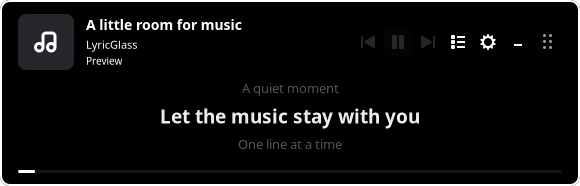
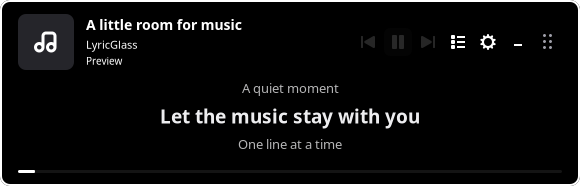
Document recovery and save behavior
Update checks and the contrast preview.

Changed region(s): [[0.4034, 0.7527, 0.5897, 0.8065], [0.4034, 0.457, 0.5897, 0.5108]]

diff --git a/docs/CONFIGURATION.md b/docs/CONFIGURATION.md
@@ -3,7 +3,9 @@
 Open Preferences with `lyricglass settings` or Shift+F7 where global shortcuts
 are configured. Changes apply live and save after a short debounce. English is
 the default; Behavior offers Spanish and Simplified Chinese. Song text and
-artist names are never translated.
+artist names are never translated, including their tooltips. External commands
+refresh open preferences without changing the active tab. Normal exit and service
+stop wait up to three seconds for pending preference writes to finish.
 
 ## Appearance
 
@@ -32,8 +34,10 @@ complete lyrics view. Artwork, playback buttons, progress, neighboring lines
 and metadata can be hidden independently or through lyrics-only mode.
 
 Dark and Light use solid surfaces; their opacity does not follow the Glass
-slider. Minimal removes the drawn panel background, though compositor blur
-rules may still affect the surface behind it. System reduced-motion settings
+slider. Minimal removes the drawn panel background. Generated Niri rules disable
+blur for non-glass styles and remove Minimal's shadow; separately configured
+desktop rules may override this. High contrast keeps neighboring lyrics at least
+75% opaque. System reduced-motion settings
 are honored in addition to the app's animation toggle.
 
 Reset appearance restores visual defaults without changing language, startup,
@@ -60,6 +64,12 @@ coordinates cannot override compositor policy. See [compatibility](COMPATIBILITY
 Hide/show does not quit the application. The settings command still works while
 the overlay is hidden, paused or click-through. Turning off login startup does
 not terminate a running instance.
+
+`lyricglass recover`, also available as Restore access in Behavior, restores a
+clickable panel on the automatic monitor at the top-center anchor. It clears
+position locking, lyrics-only mode, auto-hide and start-hidden preferences, but
+preserves appearance, language, lyric timing, shortcuts and login startup.
+Managed Wayland still controls the actual window position.
 
 ## Playback
 
@@ -89,6 +99,7 @@ lyricglass language en
 lyricglass language es
 lyricglass language zh
 lyricglass move
+lyricglass recover
 lyricglass position 120 180
 lyricglass reset-position
 lyricglass material liquid --refraction 6
@@ -120,6 +131,8 @@ Preferences also has native import/export file dialogs. Imports apply live,
 normalize ranges and preserve the current login-startup choice. Files must be
 valid JSON and at most 128 KiB. Backups can include display connector names and
 shortcut choices from another machine; review these after importing.
+CLI exports use the live application's preferences when available, even before
+the debounced disk write finishes. With no running instance they read the file.
 
 Settings live in `$XDG_CONFIG_HOME/lyricglass/config.json`, normally
 `~/.config/lyricglass/config.json`. Missing fields receive defaults. Invalid JSON

diff --git a/docs/VERIFICATION.md b/docs/VERIFICATION.md
@@ -7,7 +7,7 @@ GTK 4.22.4, gtk4-layer-shell C library 1.3.0 and Niri 26.04.
 
 - Formatting and strict Clippy with all features.
 - Formatting and strict Clippy without the optional layer-shell feature.
-- 19 unit tests plus one private-D-Bus MPRIS integration test.
+- 22 unit tests plus one private-D-Bus MPRIS integration test.
 - One additional native X11 integration test, explicitly enabled with
   `cargo test --test x11 -- --ignored`.
 - Native X11 test also passes with `--no-default-features`.
@@ -34,6 +34,17 @@ D-Bus session. It verifies:
 - Injected F7 presses hide and show the window.
 - Click-through creates an empty native input region.
 - Settings import/export updates a running instance and preserves startup choice.
+- Immediate exports use live preferences rather than an outdated file.
+- Immediate Quit and SIGTERM flush the latest settings and bounded coordinates.
+- Recovery restores access without resetting appearance, language or startup.
+- Switching language retains the selected preferences tab.
+- Oversized startup configuration files fall back to defaults.
+
+All five generated stock-Niri rule files and all five optional Liquid Glass
+rule files passed their respective compositor validators. The X11 harness waits
+for D-Bus ownership before sending commands after a restart and bounds command
+execution, preventing a status request from accidentally becoming the primary
+test instance.
 
 Screenshots in `screenshots/` are native widget captures with original sample
 lyrics, not browser mockups. They exclude background blur and refraction.
@@ -56,7 +67,8 @@ enabled and running, replacing the temporary launch unit. The installed desktop
 and autostart entries and systemd unit passed their validators; `niri validate`
 also passed. Disabling and reenabling login startup left the same application
 process running. Existing appearance, placement and shortcut settings survived
-the update. The installed app reports English, the native Wayland layer backend,
+the update. English defaults were verified separately from the user's explicit
+language preference. The installed app reports the native Wayland layer backend,
 real Spotify playback and synchronized lyrics. An actual reboot/login cycle has
 not been performed.
 

diff --git a/CHANGELOG.md b/CHANGELOG.md
@@ -1,0 +1,23 @@
+# Changelog
+
+## Unreleased
+
+### Fixed
+
+- Flush pending preference writes on Quit, SIGINT and SIGTERM.
+- Export live preferences before the disk-write debounce completes.
+- Save clamped coordinates instead of the original out-of-bounds request.
+- Refresh open settings after external changes and keep the selected tab.
+- Preserve song and artist tooltips when changing the interface language.
+- Match compositor corners, blur and reflections to the selected style.
+- Keep neighboring lyrics readable in High Contrast.
+- Remove a duplicate X11 window-state request.
+- Avoid querying Wayland layer-shell APIs on X11 displays.
+- Use English defaults for remaining Spotify and lyric-provider errors.
+- Enforce read limits while reading cache and startup configuration files.
+
+### Added
+
+- Restore access action and `lyricglass recover` command.
+- Native regression coverage for immediate export, graceful exit, recovery,
+  bounded configuration loading and language changes within settings.

diff --git a/README.md b/README.md
@@ -141,6 +141,8 @@ test also uses a private bus and never controls your Spotify.
   after moving the executable. On other Wayland desktops, bind the command manually.
 - **Cannot click:** `lyricglass game-mode` toggles click-through off;
   `lyricglass settings` opens preferences separately.
+- **Panel inaccessible:** `lyricglass recover` restores visible, unlocked controls
+  without resetting appearance, language or login startup.
 - **Lyrics drift:** adjust the offset; live and remastered versions may have
   different timings. Retry the lookup from preferences.
 - **No blur:** transparency alone does not create blur. Check compositor rules

diff --git a/docs/DEVELOPMENT.md b/docs/DEVELOPMENT.md
@@ -21,6 +21,12 @@ position resynchronization runs every two seconds, with a monotonic clock betwee
 updates. Slider writes are coalesced without discarding queued import/install
 operations.
 
+The exported application action state holds the current normalized preferences,
+so CLI backups do not depend on a delayed file write. A worker-queue barrier
+finishes pending writes on normal shutdown, including SIGINT/SIGTERM service
+stops, with a three-second maximum wait. Forced kills and power loss cannot use
+that graceful shutdown path.
+
 ## Checks
 
 ```sh
